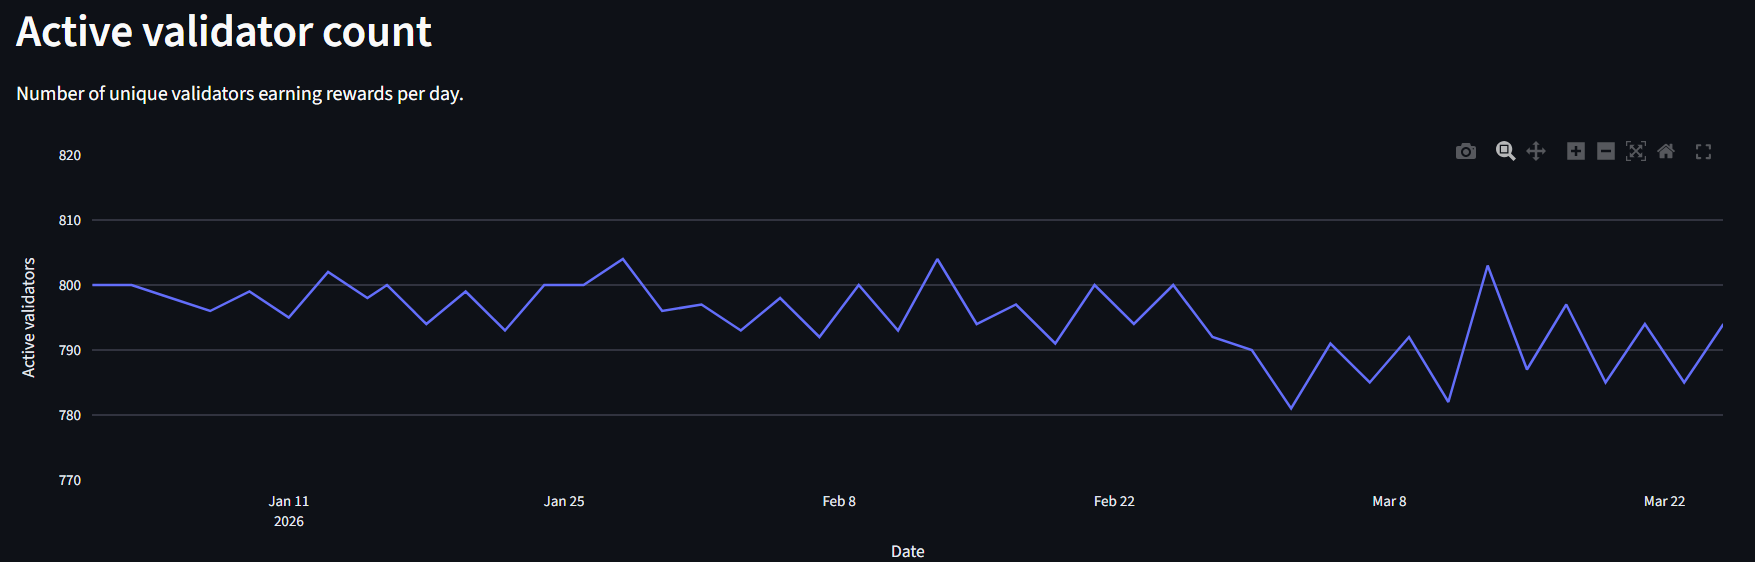
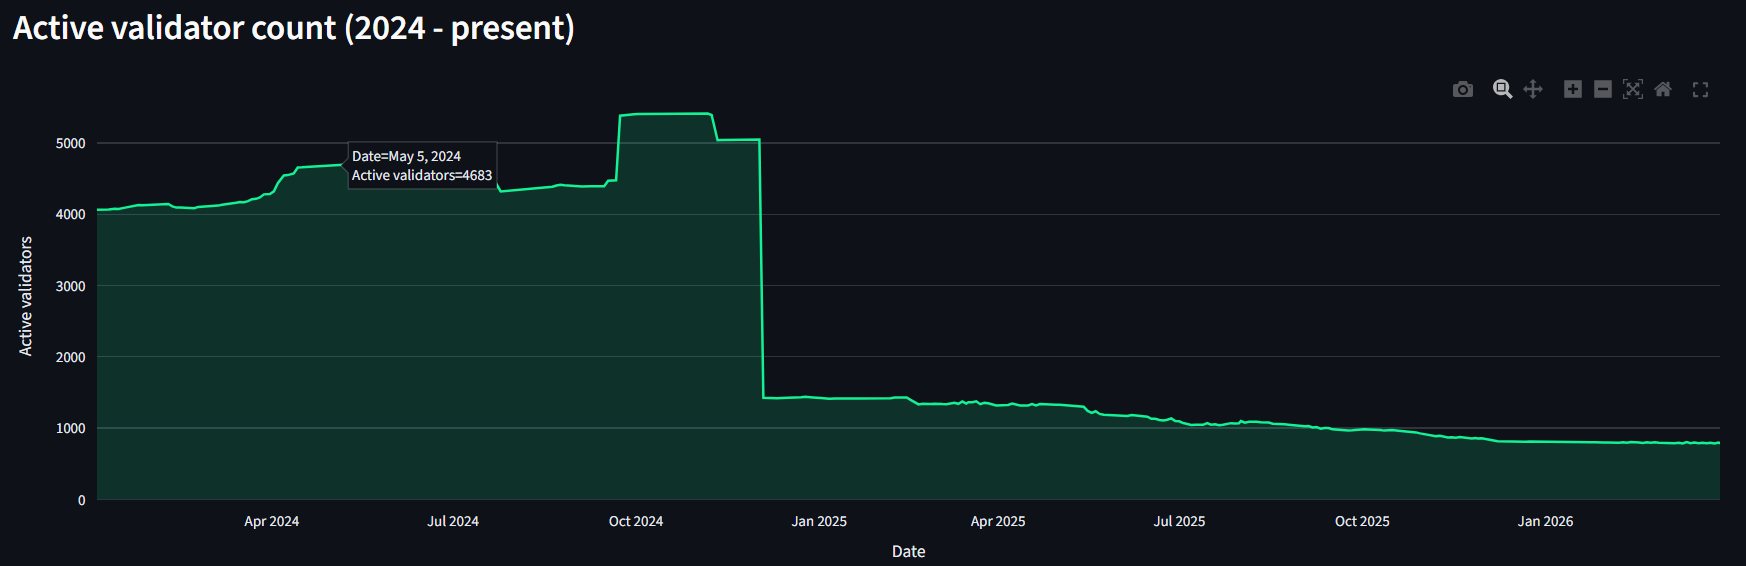
Update readme

diff --git a/README.md b/README.md
@@ -2,65 +2,68 @@
 
 **Are validator economics a threat to Solana's decentralization?**
 
-A data engineering project analyzing on-chain Solana validator reward data to determine whether running a validator is economically sustainable, and how it effects decentralization. Ultimately I want to answer what happens when Solana becomes too centralized and how we go back to decentralization.
+A data engineering project analyzing on-chain Solana data to show how unsustainable validator economics drove centralization, concentrated block production, and handed control of transaction ordering to a single MEV infrastructure — Jito.
 
 ## Problem Statement
 
-Solana validators must pay ~1.1 SOL per day in voting transaction fees just to participate in consensus. At current SOL prices, that's roughly $88/day or $2,640/month — before any hardware costs. Meanwhile, validator rewards are heavily concentrated: the top 100 validators capture over 70% of all rewards, leaving the remaining 650+ validators to split the rest.
+Solana validators must pay ~1.1 SOL per day (~$91/day at current prices) in voting transaction fees just to participate in consensus — before any hardware costs. Solana's active validator count collapsed from 5,400 in October 2024 to under 800 today — an 85% decline in 18 months. Thousands of validators couldn't cover the cost and shut down.
 
-The result? Solana's active validator count has dropped from ~2,500 in 2023 to roughly 750 in early 2026 — a 68% decline. The Nakamoto coefficient (minimum validators needed to control 33% of the network) has fallen into the concerning range of 15-19. Currently Solana is more centralized than it has been in years. There are real problems with that and we are hopeful that the upcoming Alpenglow upgrade will change things. This project uses real blockchain data to quantify the problem and model what protocol changes like the upcoming Alpenglow upgrade could do to fix it.
+The survivors are increasingly concentrated at the top. The top 100 validators produce 71% of all blocks. With economics this brutal, validators adopted Jito — a client that sells transaction ordering to the highest bidder — for any extra revenue they could get. Today, 770 out of 773 validators run Jito. 98.1% of all Solana blocks flow through one company's auction system.
+
+During peak memecoin season (mid-2024), only 441 validators ran Jito and $14.7 million was extracted in a single day. Now 770 run it — nearly double. The Alpenglow upgrade will reduce voting costs and potentially bring new validators online, but if every new validator also runs Jito, the extraction machine only grows. The network needs competing validator infrastructure. This project uses real blockchain data to quantify the problem and tell the story.
 
 ## Dashboard
 
-The interactive Streamlit dashboard answers four key questions:
+The interactive Streamlit dashboard tells the story in seven sections:
 
-1. **How many validators are profitable?** — A profit/loss distribution showing net daily SOL after voting costs
-2. **What if voting costs change?** — An interactive slider modeling the impact of Alpenglow (which eliminates voting fees)
-3. **How decentralized is the network?** — Nakamoto coefficient tracked over time
-4. **Where are rewards going?** — Concentration analysis showing top 10/50/100 validator reward share
+1. **Validator economics are unsustainable** — Profit/loss distribution, Alpenglow upgrade simulator
+2. **Decentralization is declining** — Historical validator count (5,400 → 800), Nakamoto coefficient
+3. **Where does revenue come from?** — Four-way revenue split (voting rewards, base fees, priority fees, Jito tips) by validator tier
+4. **Block production & MEV are concentrated** — Side-by-side horizontal bar charts
+5. **Rewards are flowing to the top** — Sankey diagram showing reward flow to validator tiers
+6. **Jito controls 98% of blocks** — Dominance metrics, historical MEV vs Jito adoption
+7. **The full picture** — Narrative summary connecting all findings
 
-🔗 **[Live Dashboard](https://solana-validator-dashboard-7jlzowd9tcm93cafoend66.streamlit.app/)**
-
-![Underwater Validators](images/Underwater_validators.png)
-
-![Validator Count](images/Validator_count.png)
+> 🔗 **[Live Dashboard](https://solana-validator-dashboard-7jlzowd9tcm93cafoend66.streamlit.app/)**
 
 ## Architecture
 
 ```
-┌─────────────────────┐     ┌──────────────────┐     ┌──────────────────┐
-│  BigQuery Public     │     │  CoinGecko API   │     │                  │
-│  Solana Dataset      │     │  (SOL price)     │     │   Terraform      │
-│  (Block Rewards,     │     │                  │     │   (IaC)          │
-│   Blocks)            │     │                  │     │                  │
-└────────┬────────────┘     └────────┬─────────┘     └──────────────────┘
-         │                           │
-         ▼                           ▼
-┌─────────────────────────────────────────────┐
-│          Apache Airflow (Docker)            │
-│                                             │
-│  extract_block_rewards ─┐                   │
-│  extract_blocks ────────┼─► load_to_warehouse ─► run_dbt │
-│  extract_sol_price ─────┘                   │
-└─────────────────────┬───────────────────────┘
-                      │
-         ┌────────────┴────────────┐
-         ▼                         ▼
-┌─────────────────┐     ┌──────────────────────┐
-│  Google Cloud    │     │  BigQuery Warehouse   │
-│  Storage (GCS)   │     │                      │
-│  Parquet files   │     │  Staging → dbt →     │
-│  (Data Lake)     │     │  Fact Tables         │
-└─────────────────┘     └──────────┬───────────┘
-                                   │
-                                   ▼
-                        ┌──────────────────────┐
-                        │  Streamlit Dashboard  │
-                        │  (deployed)           │
-                        └──────────────────────┘
+┌─────────────────────┐  ┌──────────────────┐  ┌──────────────────┐  ┌──────────────────┐
+│  BigQuery Public     │  │  Solana RPC API   │  │  Jito API        │  │  CoinGecko API   │
+│  Solana Dataset      │  │  getVoteAccounts  │  │  MEV rewards     │  │  SOL/USD price   │
+│  (Block Rewards,     │  │  (validator       │  │  Historical      │  │                  │
+│   Blocks)            │  │   snapshots)      │  │  epochs          │  │                  │
+└────────┬─────────────┘  └────────┬──────────┘  └────────┬─────────┘  └────────┬─────────┘
+         │                         │                       │                     │
+         ▼                         ▼                       ▼                     ▼
+┌──────────────────────────────────────────────────────────────────────────────────────────┐
+│                          Apache Airflow (Docker)                                        │
+│                                                                                         │
+│  extract_block_rewards ─┐                                                               │
+│  extract_blocks ────────┤                                                               │
+│  extract_sol_price ─────┼──► load_to_warehouse ──► run_dbt                              │
+│  extract_validators ────┤                                                               │
+│  extract_jito_mev ──────┤                                                               │
+│  extract_jito_hist ─────┘                                                               │
+└─────────────────────────┬───────────────────────────────────────────────────────────────┘
+                          │
+         ┌────────────────┴────────────────┐
+         ▼                                 ▼
+┌─────────────────────┐     ┌──────────────────────────┐
+│  Google Cloud       │     │  BigQuery Warehouse       │
+│  Storage (GCS)      │     │                           │
+│  Parquet files      │     │  Staging → dbt →          │
+│  (Data Lake)        │     │  Materialized Tables →    │
+│                     │     │  Fact Tables              │
+└─────────────────────┘     └────────────┬──────────────┘
+                                         │
+                                         ▼
+                              ┌──────────────────────┐
+                              │  Streamlit Dashboard  │
+                              │  (Streamlit Cloud)    │
+                              └──────────────────────┘
 ```
-
-![Airflow DAG](images/Airflow_DAG.png)
 
 ## Tech Stack
 
@@ -69,20 +72,34 @@ The interactive Streamlit dashboard answers four key questions:
 | Infrastructure as Code | Terraform |
 | Cloud Platform | Google Cloud (GCS + BigQuery) |
 | Containerization | Docker + Docker Compose |
-| Workflow Orchestration | Apache Airflow |
+| Workflow Orchestration | Apache Airflow (LocalExecutor) |
 | Data Lake | Google Cloud Storage (Parquet) |
 | Data Warehouse | BigQuery (partitioned + clustered) |
 | Transformations | dbt |
 | Dashboard | Streamlit + Plotly |
-| Data Sources | BigQuery Public Solana Dataset, CoinGecko API |
+| Data Sources | BigQuery Public Solana Dataset, Solana RPC API, Jito API, CoinGecko API, Jito Website |
 
 ## Data Pipeline
 
+### Data Sources
+
+| Source | What it provides | Table(s) |
+|---|---|---|
+| BigQuery Public Solana Dataset | Block rewards (voting rewards per validator), block production data (leader, fees, transactions) | `raw_block_rewards`, `raw_blocks` |
+| Solana RPC API (`getVoteAccounts`) | Current validator snapshot: stake, commission, vote/node pubkey mapping | `raw_validator_snapshots` |
+| Jito API (`kobe.mainnet.jito.network`) | Per-validator MEV rewards, historical epoch-level MEV totals, Jito validator counts | `raw_jito_mev`, `raw_jito_historical` |
+| CoinGecko API | Daily SOL/USD price | `raw_sol_price` |
+| Jito Website (CSV export) | Official fee breakdown: base fees vs priority fees vs Jito tips | Applied as 18%/65%/17% ratio in dashboard |
+| BigQuery Public (one-time historical scan) | Historical validator count 2024–present | `historical_validator_count` |
+
 ### Extraction
-The Airflow DAG runs three extraction tasks in parallel:
-- **Block Rewards** — validator reward events from BigQuery's public Solana dataset (`bigquery-public-data.crypto_solana_mainnet_us.Block Rewards`)
-- **Blocks** — block production data including leader assignment and transaction counts
-- **SOL Price** — daily SOL/USD price from the CoinGecko free API
+The Airflow DAG runs six extraction tasks:
+- **Block Rewards** — validator voting reward events from BigQuery's public Solana dataset (`bigquery-public-data.crypto_solana_mainnet_us.Block Rewards`)
+- **Blocks** — block production data including leader assignment, transaction counts, and leader_reward (fees)
+- **SOL Price** — daily SOL/USD from CoinGecko free API
+- **Validator Snapshots** — current validator set from Solana RPC `getVoteAccounts`
+- **Jito MEV** — per-validator MEV rewards from Jito API
+- **Jito Historical** — epoch-level MEV totals and Jito validator counts from Jito API
 
 ### Loading
 Raw data is exported from BigQuery staging tables to GCS as Parquet files (data lake), then loaded into the warehouse BigQuery dataset.
@@ -91,7 +108,7 @@ Raw data is exported from BigQuery staging tables to GCS as Parquet files (data 
 Three layers of dbt models transform raw data into analytics-ready tables:
 
 **Staging** — clean and type-cast raw data, convert lamports to SOL
-- `stg_block_rewards` — one row per reward event
+- `stg_block_rewards` — one row per reward event (filtered to reward_type='Voting')
 - `stg_blocks` — one row per block produced
 - `stg_sol_price` — daily SOL/USD price
 
@@ -101,24 +118,55 @@ Three layers of dbt models transform raw data into analytics-ready tables:
 - `int_daily_network_stats` — network-wide daily metrics with percentile distributions
 
 **Facts** — business logic answering the core questions
-- `fct_validator_profitability` — per-validator profitability analysis, break-even SOL price calculations, tier classification (whale/medium/small/underwater)
-- `fct_network_risk` — daily risk assessment: what % of validators are profitable at current SOL prices
+- `fct_validator_profitability` — per-validator profitability analysis, break-even SOL price
+- `fct_validator_economics` — three-source revenue calculation (voting + block fees + MEV)
+- `fct_network_risk` — daily risk assessment: what % of validators are profitable
 - `fct_reward_concentration` — Nakamoto coefficient, reward share of top 10/50/100 validators
+
+### Materialized Tables
+To avoid scanning 15+ GB of raw data on every dashboard load, key aggregations are pre-computed:
+- `validator_daily_block_fees` — daily block fees per validator from `raw_blocks`
+- `validator_daily_voting_rewards` — daily voting rewards from `int_validator_summary`
 
 ### Data Warehouse Optimization
 - Tables partitioned by `block_timestamp` (monthly)
 - Block Rewards clustered by `pubkey` (validator public key)
-- This makes sense because downstream queries filter by date range and group by validator — partitioning reduces scan size and clustering speeds up per-validator aggregations
-
-![BigQuery](images/BigQuery.png)
+- Partitioning reduces scan size for date-filtered queries; clustering speeds up per-validator aggregations
 
 ## Key Findings
 
-- **The vast majority of validators are underwater** — they earn less than the 1.1 SOL/day voting cost
-- **Only ~750 active validators remain**, down from ~2,500 in 2023
-- **The Nakamoto coefficient sits at 15-19**, meaning fewer than 20 validators could collude to control a third of the network
-- **The top 100 validators capture ~73% of all rewards**, leaving 650+ validators to share the remaining 27%
-- **Alpenglow could help** — if voting costs drop to zero, the number of underwater validators drops significantly, though most tiny validators still earn negligible amounts
+### Validator Economics
+- **773 active validators** remain, down from 5,400 in October 2024 — an 85% decline
+- **97 validators are underwater** — earning less than the 1.1 SOL/day voting cost
+- **98 validators (12%)** earn over 500 SOL/day — the remaining 675 average under 14 SOL/day
+- Top tier: 551 SOL/day. Underwater: 0.6 SOL/day — a **920x difference**
+
+### Revenue Breakdown (Jito Official Data, March 2026)
+Network-wide daily block revenue:
+- Base & vote fees: 18.1% (~1,356 SOL/day)
+- Priority fees: 64.9% (~5,032 SOL/day)
+- Jito tips: 17.0% (~1,355 SOL/day)
+
+MEV-related revenue (priority fees + Jito tips) as % of total income by tier:
+- **Top tier (1M+ SOL):** 6.6%
+- **Mid tier (100k-1M):** 25.3%
+- **Small profitable:** 13.3%
+- **Underwater:** 64.5%
+
+During peak memecoin season (late 2024), Jito tips alone accounted for over 50% of all block revenue.
+
+### Block Production & MEV Concentration
+- Top 50 validators produce **54% of all blocks**; top 100 produce **71%**
+- Top 10 validators capture **33.2% of MEV revenue** despite producing only **22.8% of blocks**
+
+### Jito Dominance
+- **98.1% of blocks** produced by Jito validators (770 out of 773)
+- Peak extraction: **116,070 SOL** in a single epoch with only 441 Jito validators
+- MEV dropped **97%** since peak, but Jito validator count nearly **doubled** (441 → 770)
+- The extraction infrastructure is embedded in 98% of blocks and waiting for the next wave
+
+### What's at Stake
+The Alpenglow upgrade will reduce voting costs and potentially bring new validators online. But if every new validator also runs Jito — and there is currently no alternative — the extraction machine only grows. More validators with Jito doesn't mean more decentralization. It means more nodes running the same monopoly software. The network needs competing validator infrastructure that doesn't sell transaction ordering.
 
 ## Steps to Reproduce
 
@@ -131,8 +179,8 @@ Three layers of dbt models transform raw data into analytics-ready tables:
 
 ### 1. Clone the repo
 ```bash
-git clone https://github.com/YOUR_USERNAME/solana-validator-economics-dashboard.git
-cd solana-validator-economics-dashboard
+git clone https://github.com/SwagasaurusFLEX/Solana-Validator-Dashboard.git
+cd Solana-Validator-Dashboard
 ```
 
 ### 2. Set up GCP credentials
@@ -149,20 +197,12 @@ gcloud projects add-iam-policy-binding YOUR_PROJECT_ID \
   --member="serviceAccount:solana-pipeline@YOUR_PROJECT_ID.iam.gserviceaccount.com" \
   --role="roles/storage.admin"
 
-gcloud projects add-iam-policy-binding YOUR_PROJECT_ID \
-  --member="serviceAccount:solana-pipeline@YOUR_PROJECT_ID.iam.gserviceaccount.com" \
-  --role="roles/bigquery.jobUser"
-
-gcloud projects add-iam-policy-binding YOUR_PROJECT_ID \
-  --member="serviceAccount:solana-pipeline@YOUR_PROJECT_ID.iam.gserviceaccount.com" \
-  --role="roles/bigquery.dataViewer"
-
 # Download key
 mkdir -p config
 gcloud iam service-accounts keys create config/sa-key.json \
   --iam-account=solana-pipeline@YOUR_PROJECT_ID.iam.gserviceaccount.com
 
-# Also set up application default credentials (needed for BigQuery public dataset access)
+# Set up application default credentials
 gcloud auth application-default login
 cp $APPDATA/gcloud/application_default_credentials.json config/gcp-key.json
 ```
@@ -188,15 +228,18 @@ cd ..
 ```bash
 docker-compose up -d --build
 ```
-Airflow UI will be available at `http://localhost:8080` (admin/admin).
+Airflow UI available at `http://localhost:8080` (admin/admin).
 
 ### 6. Run the pipeline
 In the Airflow UI, enable the `solana_validator_pipeline` DAG and trigger a run. The pipeline will:
 1. Extract Block Rewards and Blocks from BigQuery public Solana dataset
 2. Extract SOL price from CoinGecko
-3. Export data to GCS as Parquet files
-4. Load into the warehouse BigQuery dataset
-5. Run dbt transformations to create fact tables
+3. Extract validator snapshot from Solana RPC
+4. Extract MEV rewards from Jito API
+5. Extract historical MEV data from Jito API
+6. Export data to GCS as Parquet files
+7. Load into the warehouse BigQuery dataset
+8. Run dbt transformations to create fact tables
 
 ### 7. View the dashboard
 ```bash
@@ -204,10 +247,33 @@ pip install streamlit plotly google-cloud-bigquery pandas db-dtypes
 streamlit run streamlit_app.py
 ```
 
-## Future Improvements (Attempt 2)
-- will be analyzing how centralization affects current trading conditions within the solana ecosystem. 
-- Why Ethereum is history and the future of Solana
-- Alpenglow upgrade
+## Project Structure
+```
+solana_validator_dashboard/
+├── terraform/                    # Infrastructure as Code
+│   ├── main.tf
+│   ├── variables.tf
+│   └── outputs.tf
+├── airflow/
+│   ├── dags/
+│   │   └── solana_pipeline.py    # Airflow DAG
+│   └── scripts/
+│       ├── extract_solana_data.py
+│       ├── extract_validator_snapshot.py
+│       ├── extract_jito_mev.py
+│       └── extract_jito_historical.py
+├── dbt/
+│   └── models/
+│       ├── staging/              # stg_block_rewards, stg_blocks, stg_sol_price
+│       ├── intermediate/         # int_validator_daily_rewards, int_validator_summary, int_daily_network_stats
+│       └── marts/                # fct_validator_profitability, fct_network_risk, fct_reward_concentration, fct_validator_economics
+├── streamlit_app.py              # Dashboard (7 sections)
+├── docker-compose.yml
+├── Dockerfile
+├── requirements.txt
+├── .streamlit/secrets.toml       # GCP credentials (gitignored)
+└── README.md
+```
 
 ## Course
 This project was built as the final capstone for the [Data Engineering Zoomcamp 2026](https://github.com/DataTalksClub/data-engineering-zoomcamp) by [DataTalks.Club](https://datatalks.club/).
